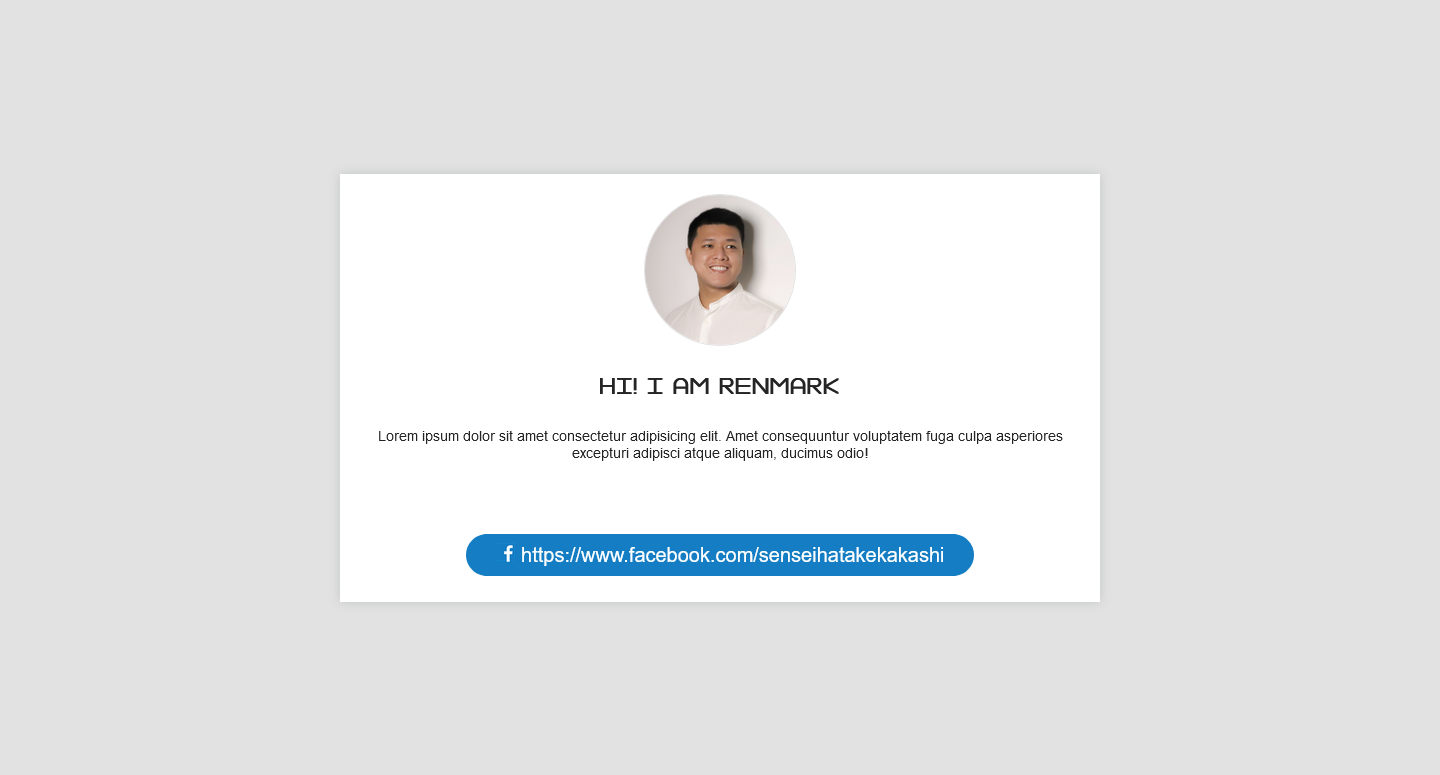
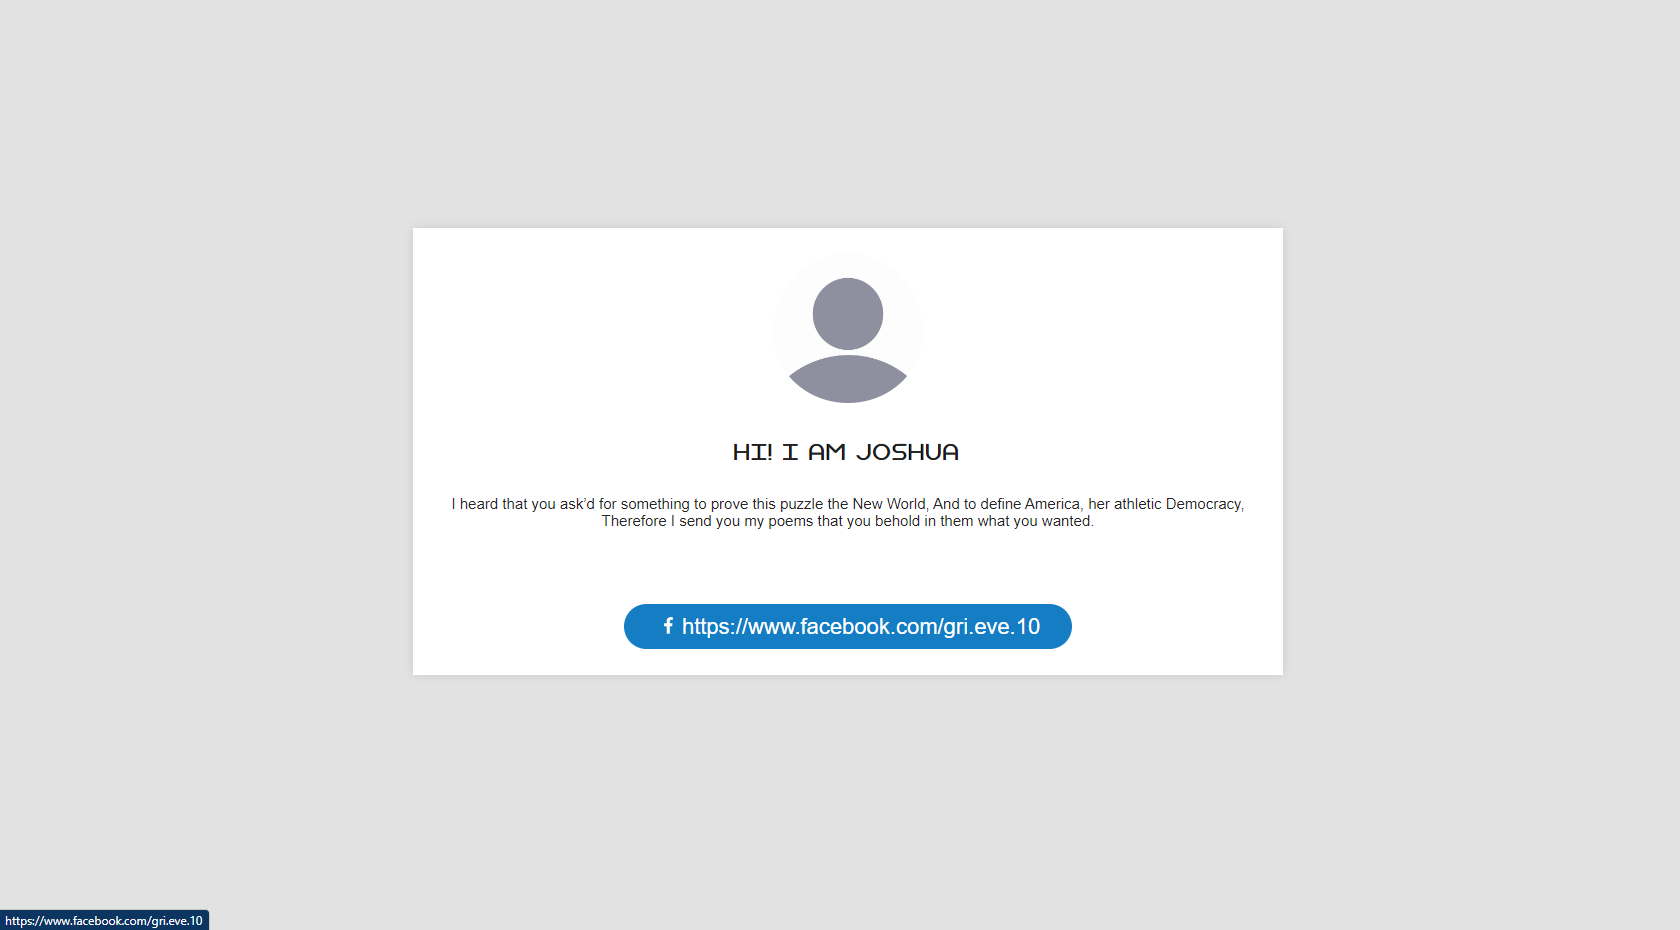
Activity Finished

Changed region(s): [[0.2188, 0.2168, 0.7812, 0.7742], [0.0, 0.96, 0.125, 1.0]]

diff --git a/css/styles.css b/css/styles.css
@@ -17,15 +17,15 @@
 
 body{
     background-color: #E2E2E2;
-    padding-left: 320px;
+    padding-left: 405px;
     padding-right: 320px;
     padding-top: 220px;
     padding-bottom: 150px;
-    
+    align-items: center;
 }
 
 div{
-   
+   align-self: center;
     padding-left: 35px;
     padding-right: 35px;
     padding-top: 25px;;
@@ -44,8 +44,8 @@ div{
 .profile-picture{
 
     border-radius: 50%;
-    width: 175px;
-    height: 175px;
+    width: 150px;
+    height: 150px;
     padding-bottom: 10px;
 }
 

diff --git a/index.html b/index.html
@@ -9,7 +9,7 @@
 </head>
 <body>
     <div class="container">
-        <img src="img/profile.jpg" alt="Profile Picture" class="profile-picture">
+        <img src="img/imagejpg.jpg" alt="Profile Picture" class="profile-picture">
         <h1 class="name">Hi! I am Joshua</h1>
         <p class="bio">I heard that you ask’d for something to prove this puzzle the New World,
             And to define America, her athletic Democracy,
